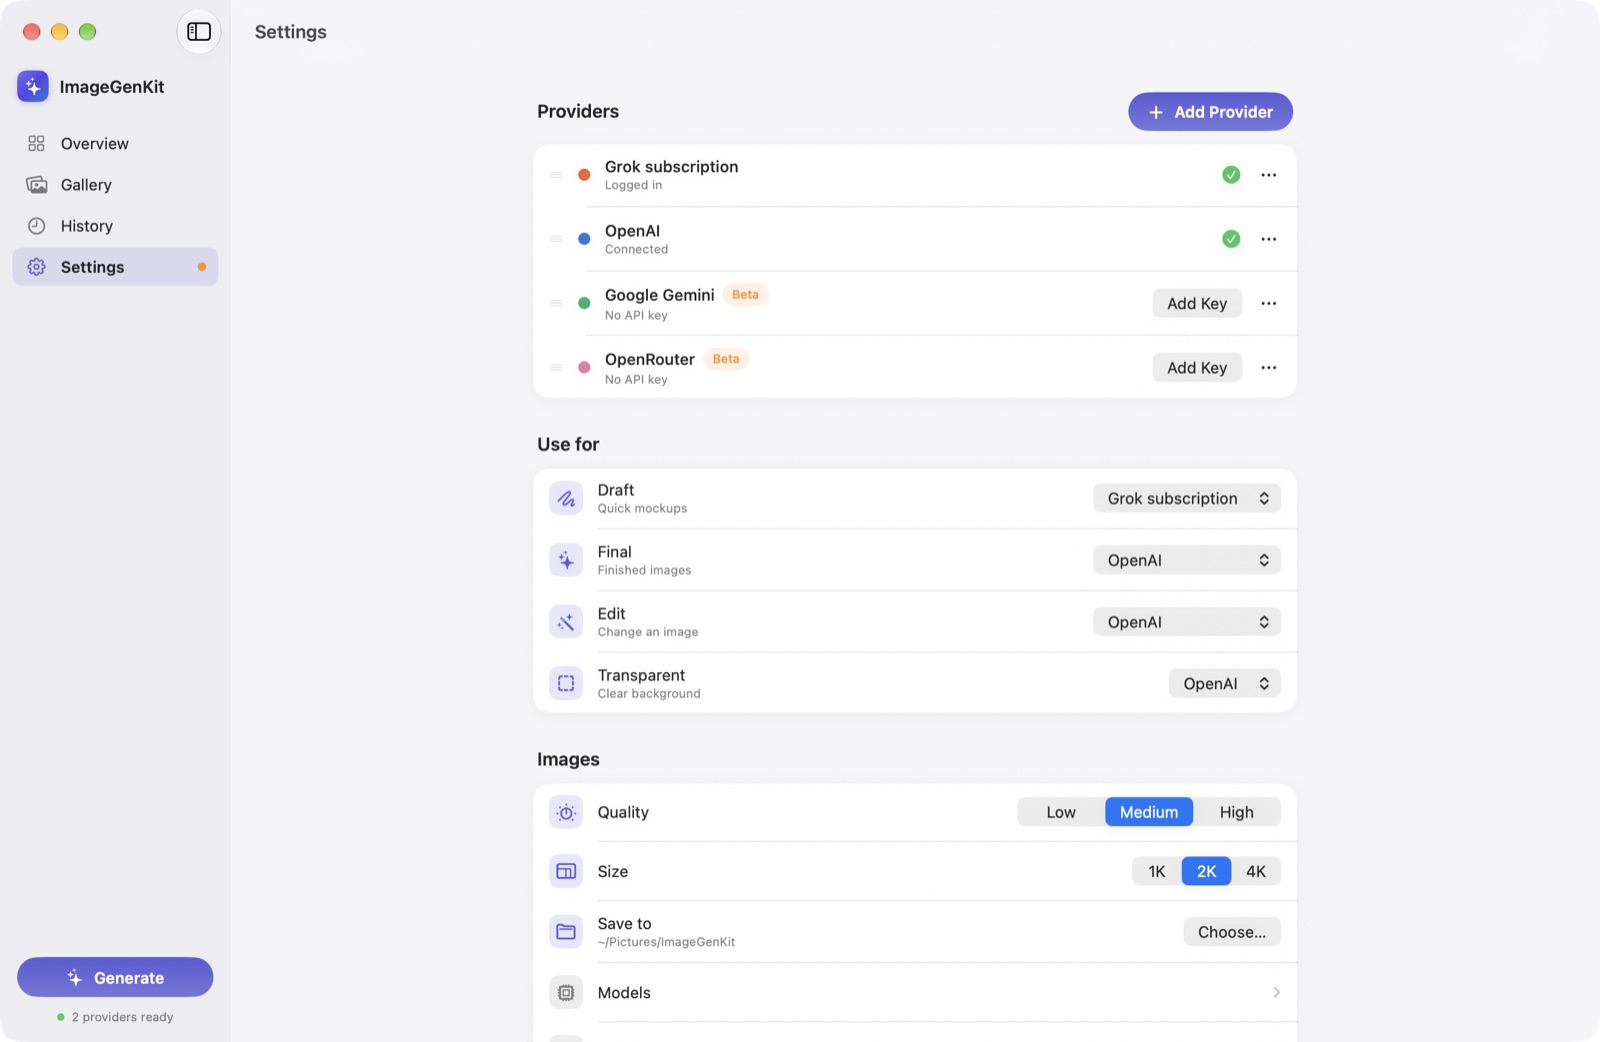
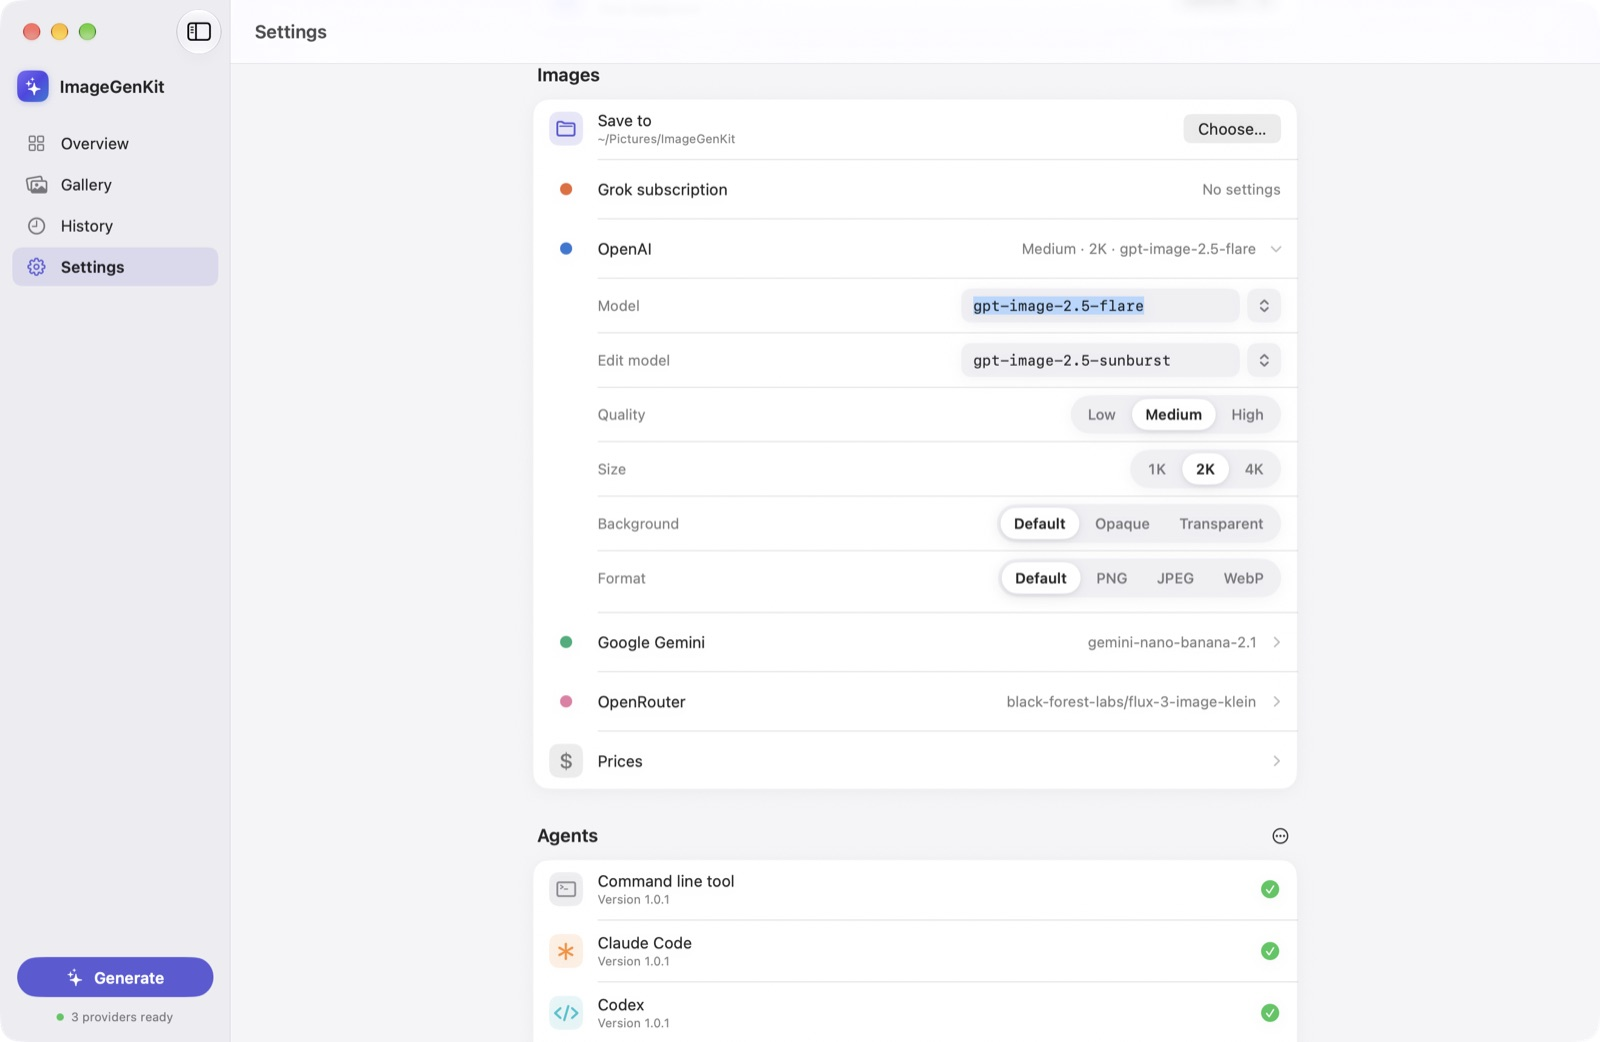
README: welcome tour, per-provider settings screenshots

diff --git a/README.md b/README.md
@@ -19,6 +19,7 @@
 
 ## What it does
 
+- **Easy setup**: a short welcome tour finds what's already on your Mac (Grok or Codex logged in, saved keys, Claude Code, Codex), connects it in one tap, and walks you through the rest.
 - **Generate** images by hand with any provider and every option it supports.
 - **Gallery and history** of everything you or your agents generated, with prompts, sizes and files.
 - **Usage and costs** per day, month, provider and project.
@@ -31,7 +32,9 @@
 |---|---|
 | ![Gallery](docs/screenshots/gallery.jpg) | ![Generate](docs/screenshots/generate.jpg) |
 
-![Settings](docs/screenshots/settings.jpg)
+| Welcome tour | Settings |
+|---|---|
+| ![Welcome tour](docs/screenshots/tour.jpg) | ![Settings](docs/screenshots/settings.jpg) |
 
 ## Install
 
